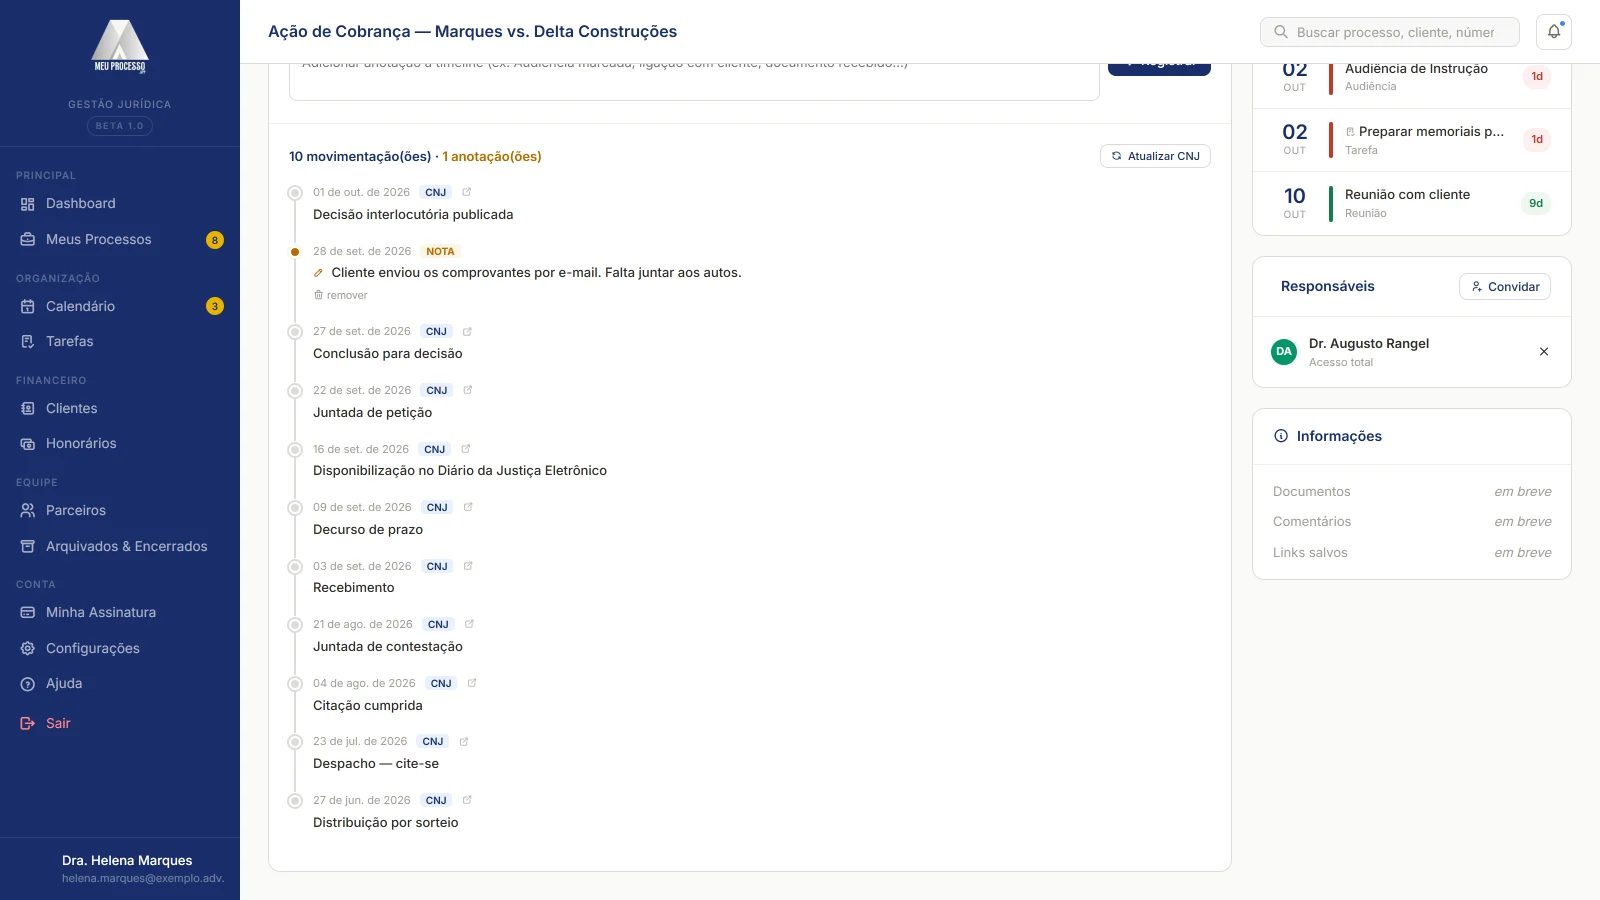
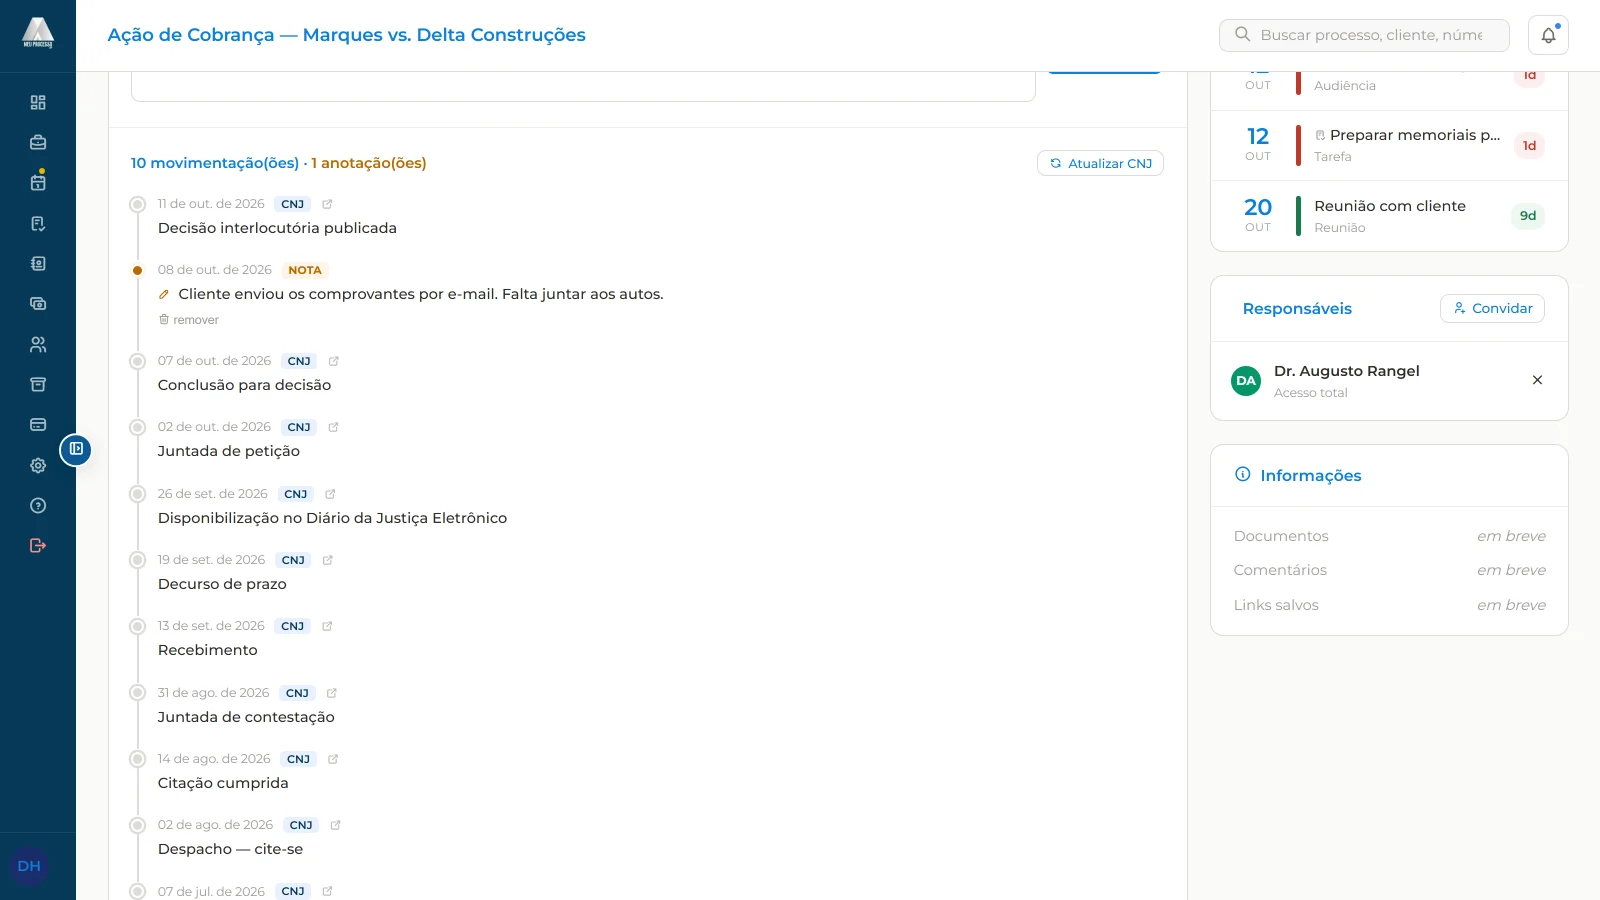
feat: tira precos da landing, trial de 30 dias, prints novos do sistema
- Remove toda mencao a preco (R$ 29/69/97) da landing (index.html) - visivel
  e JSON-LD - trocando por CTA pra /precos, que continua com os valores.
  JSON-LD de Offers vira uma unica oferta de teste gratis (price: 0)
- Trial sobe de 7 para 30 dias: nova migration (so substitui a funcao do
  trigger, nao mexe em tabela/dado existente) + todos os textos "7 dias"
  da landing e do convite do admin (js/admin.js) atualizados pra "30 dias" -
  nao toca nas 2 mencoes de "1, 3 ou 7 dias" que sao sobre alerta de prazo,
  assunto diferente
- Screenshots da landing (dashboard/processos/busca/detalhe/tarefas)
  regerados via o mecanismo de banco dubla ja existente (fora do repo,
  Playwright + Supabase fake) - refletem a UI de hoje (fonte, zoom, cores,
  checkbox de concluido etc.), nenhum dado de cliente real usado
- Imagens do showcase um pouco maiores (max-height 500->580px, coluna da
  imagem 1.3fr->1.45fr no grid)

diff --git a/index.html b/index.html
@@ -18,7 +18,7 @@
   gtag('config', 'G-S036MFTGEC');
 </script>
 <title>Meu Processo — Gestão jurídica e monitoramento de processos</title>
-<meta name="description" content="Monitore processos em +90 tribunais via CNJ DataJud, com alertas de movimentação e controle de prazos. Teste 7 dias grátis, sem cartão.">
+<meta name="description" content="Monitore processos em +90 tribunais via CNJ DataJud, com alertas de movimentação e controle de prazos. Teste 30 dias grátis, sem cartão.">
 <meta name="keywords" content="software jurídico para advogados, sistema de gestão jurídica, monitoramento de processos judiciais, acompanhar processos CNJ, DataJud advogado, alerta movimentação processual, controle de prazos jurídicos, gestão de escritório de advocacia, DJEN, busca por OAB, sistema para advogados, processo judicial online, monitorar TJDFT, TRT, TRF, STJ">
 <meta name="robots" content="index, follow, max-snippet:-1, max-image-preview:large, max-video-preview:-1">
 <meta name="author" content="Meu Processo">
@@ -31,7 +31,7 @@
 <meta property="og:locale" content="pt_BR">
 <meta property="og:site_name" content="Meu Processo">
 <meta property="og:title" content="Meu Processo — Gestão jurídica e monitoramento de processos">
-<meta property="og:description" content="Teste 7 dias grátis, sem cartão. Monitore processos em +90 tribunais via CNJ DataJud, controle prazos, tarefas e equipe. Para advogados e escritórios de advocacia.">
+<meta property="og:description" content="Teste 30 dias grátis, sem cartão. Monitore processos em +90 tribunais via CNJ DataJud, controle prazos, tarefas e equipe. Para advogados e escritórios de advocacia.">
 <meta property="og:image" content="https://meuprocesso.app.br/img/screenshots/social.jpg">
 <meta property="og:image:width" content="1280">
 <meta property="og:image:height" content="720">
@@ -39,7 +39,7 @@
 <meta property="og:url" content="https://meuprocesso.app.br/">
 <meta name="twitter:card" content="summary_large_image">
 <meta name="twitter:title" content="Meu Processo — Gestão jurídica e monitoramento de processos">
-<meta name="twitter:description" content="Teste 7 dias grátis, sem cartão. Monitore processos em +90 tribunais via CNJ DataJud e controle prazos, tarefas e equipe.">
+<meta name="twitter:description" content="Teste 30 dias grátis, sem cartão. Monitore processos em +90 tribunais via CNJ DataJud e controle prazos, tarefas e equipe.">
 <meta name="twitter:image" content="https://meuprocesso.app.br/img/screenshots/social.jpg">
 <meta name="twitter:image:alt" content="Dashboard do Meu Processo">
 <link rel="icon" type="image/png" href="img/images/logo.png">
@@ -87,35 +87,15 @@
     "Importação em lote via número CNJ",
     "Suporte a TJDFT, TRT, TRF, STJ, STF e todos os TJEs"
   ],
-  "offers": [
-    {
-      "@type": "Offer",
-      "name": "Mensal",
-      "price": "29",
-      "priceCurrency": "BRL",
-      "availability": "https://schema.org/InStock",
-      "url": "https://meuprocesso.app.br/precos",
-      "description": "Acesso completo por 30 dias, pagamento único, sem cobrança automática"
-    },
-    {
-      "@type": "Offer",
-      "name": "Semestral",
-      "price": "69",
-      "priceCurrency": "BRL",
-      "availability": "https://schema.org/InStock",
-      "url": "https://meuprocesso.app.br/precos",
-      "description": "Acesso completo por 6 meses, pagamento único, sem cobrança automática"
-    },
-    {
-      "@type": "Offer",
-      "name": "Anual",
-      "price": "97",
-      "priceCurrency": "BRL",
-      "availability": "https://schema.org/InStock",
-      "url": "https://meuprocesso.app.br/precos",
-      "description": "Acesso completo por 12 meses, pagamento único, sem cobrança automática"
-    }
-  ],
+  "offers": {
+    "@type": "Offer",
+    "name": "Teste grátis",
+    "price": "0",
+    "priceCurrency": "BRL",
+    "availability": "https://schema.org/InStock",
+    "url": "https://meuprocesso.app.br/precos",
+    "description": "Teste grátis por 30 dias — veja os planos em meuprocesso.app.br/precos"
+  },
   "publisher": {
     "@type": "Organization",
     "name": "Meu Processo",
@@ -176,7 +156,7 @@
     {
       "@type": "Question",
       "name": "Qual o melhor sistema de gestão jurídica para advogados?",
-      "acceptedAnswer": { "@type": "Answer", "text": "O Meu Processo é um sistema de gestão jurídica que oferece monitoramento automático via CNJ DataJud, controle de prazos, kanban de tarefas, calendário jurídico e workspace colaborativo — tudo em uma plataforma só. São 7 dias de teste grátis, sem cartão de crédito, e depois planos a partir de R$ 29/mês." }
+      "acceptedAnswer": { "@type": "Answer", "text": "O Meu Processo é um sistema de gestão jurídica que oferece monitoramento automático via CNJ DataJud, controle de prazos, kanban de tarefas, calendário jurídico e workspace colaborativo — tudo em uma plataforma só. São 30 dias de teste grátis, sem cartão de crédito. Veja os planos em meuprocesso.app.br/precos." }
     },
     {
       "@type": "Question",
@@ -201,7 +181,7 @@
     {
       "@type": "Question",
       "name": "Quanto custa o Meu Processo?",
-      "acceptedAnswer": { "@type": "Answer", "text": "A partir de R$ 29/mês. Também há plano semestral por R$ 69 e anual por R$ 97 — quanto maior o período, menor o preço por dia. Nenhum deles cobra automaticamente: é pagamento único por período, e você decide se renova." }
+      "acceptedAnswer": { "@type": "Answer", "text": "Você testa grátis por 30 dias, sem cartão de crédito. Os planos pagos têm pagamento único por período — nenhum cobra automaticamente, você decide se renova. Veja os valores atualizados em meuprocesso.app.br/precos." }
     }
   ]
 }
@@ -231,7 +211,7 @@
     <div>
       <div class="hero-pill">
         <span class="pill-dot"></span>
-        7 dias grátis · sem cartão de crédito
+        30 dias grátis · sem cartão de crédito
       </div>
 
       <h1 class="hero-h1">
@@ -249,7 +229,7 @@
       </p>
 
       <a href="/login?tab=signup" class="cta-primary">
-        Começar grátis — 7 dias
+        Começar grátis — 30 dias
         <span class="cta-arrow">→</span>
       </a>
 
@@ -310,8 +290,8 @@
       <div class="strip-label">tribunais monitorados</div>
     </div>
     <div class="strip-item">
-      <div class="strip-num">R$<span class="hl">1</span></div>
-      <div class="strip-label">por dia no plano mensal</div>
+      <div class="strip-num"><span class="hl">30</span> dias</div>
+      <div class="strip-label">de teste grátis, sem cartão</div>
     </div>
   </div>
 </div>
@@ -328,7 +308,7 @@
       <div class="mh-pill">📋 Histórico completo de movimentações</div>
       <div class="mh-pill">🔎 Busca por OAB, CPF ou número CNJ</div>
     </div>
-    <a href="/login?tab=signup" class="mh-cta reveal">Começar grátis — 7 dias <span>→</span></a>
+    <a href="/login?tab=signup" class="mh-cta reveal">Começar grátis — 30 dias <span>→</span></a>
   </div>
 </section>
 
@@ -473,11 +453,11 @@
 <section class="lista" id="lista-espera">
   <div class="inner">
     <div class="lista-wrap">
-      <h2 class="lista-title reveal">Teste 7 dias.<br>Sem cartão.</h2>
-      <p class="lista-sub reveal">Crie sua conta em menos de 1 minuto e veja seus processos sendo monitorados hoje mesmo. Depois do teste, R$ 29/mês — e nada é cobrado automaticamente.</p>
+      <h2 class="lista-title reveal">Teste 30 dias.<br>Sem cartão.</h2>
+      <p class="lista-sub reveal">Crie sua conta em menos de 1 minuto e veja seus processos sendo monitorados hoje mesmo. Depois do teste, <a href="/precos" style="color:#053958;font-weight:600">veja nossos planos</a> — nada é cobrado automaticamente.</p>
       <div class="lista-box reveal" style="text-align:center;padding:40px 32px">
         <a href="/login?tab=signup" class="cta-primary" style="display:inline-flex;align-items:center;gap:10px;font-size:18px;padding:18px 40px;border-radius:12px;text-decoration:none">
-          Começar grátis — 7 dias
+          Começar grátis — 30 dias
           <span class="cta-arrow" style="font-size:20px">→</span>
         </a>
         <p style="margin-top:18px;font-size:14px;color:#6b7280">Já tem conta? <a href="/login" style="color:#053958;font-weight:600;text-decoration:none">Entrar</a></p>
@@ -530,7 +510,7 @@
       </div>
       <div class="faq-item reveal" onclick="toggleFaq(this)">
         <div class="faq-q">Quanto custa o Meu Processo?<i class="faq-icon">+</i></div>
-        <div class="faq-a">A partir de R$ 29/mês. Também há plano semestral por R$ 69 e anual por R$ 97 — <a href="/precos" style="color:#053958;font-weight:600">veja os detalhes de cada um</a>. Nenhum plano cobra automaticamente: é pagamento único por período, e você decide se renova.</div>
+        <div class="faq-a">Você testa grátis por 30 dias, sem cartão de crédito — <a href="/precos" style="color:#053958;font-weight:600">veja os planos e valores</a>. Nenhum plano cobra automaticamente: é pagamento único por período, e você decide se renova.</div>
       </div>
     </div>
   </div>

diff --git a/css/style.css b/css/style.css
@@ -72,7 +72,7 @@ nav{position:fixed;top:0;left:0;right:0;z-index:100;background:rgba(255,255,255,
 .screen-bar{background:#f0f0f0;padding:9px 14px;display:flex;align-items:center;gap:6px;border-bottom:1px solid var(--g200)}
 .s-dot{width:10px;height:10px;border-radius:50%}
 .screen-url{margin-left:8px;background:var(--white);border:1px solid var(--g200);border-radius:5px;padding:3px 12px;font-size:11px;color:var(--g400);flex:1;text-align:center}
-.screen-img{display:block;width:100%;height:auto;max-height:500px;object-fit:cover;object-position:top left}
+.screen-img{display:block;width:100%;height:auto;max-height:580px;object-fit:cover;object-position:top left}
 
 /* STRIP */
 .strip{background:var(--g900);padding:36px 6%}
@@ -211,7 +211,7 @@ footer{background:var(--g900);padding:48px 6% 28px}
 
 /* SHOWCASE */
 .showcase{padding:100px 0;background:#fff}
-.showcase-row{display:grid;grid-template-columns:1fr 1.3fr;gap:64px;align-items:center;margin-bottom:100px}
+.showcase-row{display:grid;grid-template-columns:1fr 1.45fr;gap:64px;align-items:center;margin-bottom:100px}
 .showcase-row:last-child{margin-bottom:0}
 .showcase-row-reverse{direction:rtl}
 .showcase-row-reverse>*{direction:ltr}

diff --git a/js/admin.js b/js/admin.js
@@ -1152,7 +1152,7 @@ function mostrarLinkConvite({ email, link, codigo, jaExistia, avisoEmail }) {
   const caixa = document.getElementById('conv-resultado');
   if (!caixa) { alert(`Convite criado.\n\nLink: ${link}`); return; }
 
-  const texto = `Olá! Seu acesso ao Meu Processo está liberado — 7 dias grátis para testar.\n\nCrie sua conta aqui:\n${link}`;
+  const texto = `Olá! Seu acesso ao Meu Processo está liberado — 30 dias grátis para testar.\n\nCrie sua conta aqui:\n${link}`;
   window._convTextoWpp = texto;
   window._convLink     = link;
 
